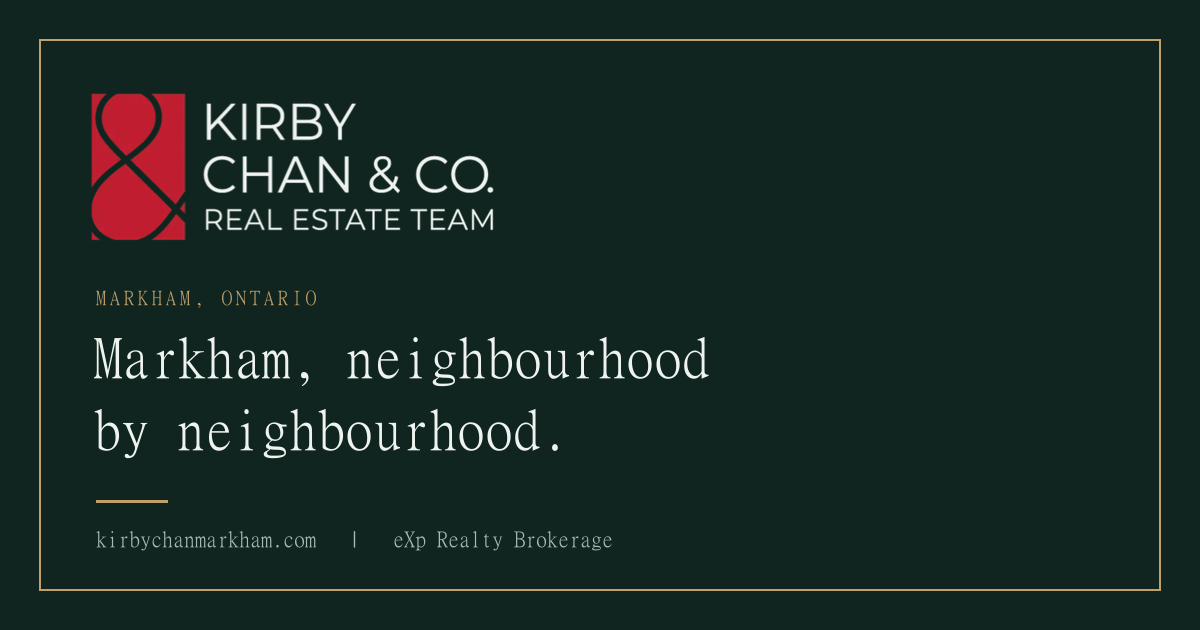
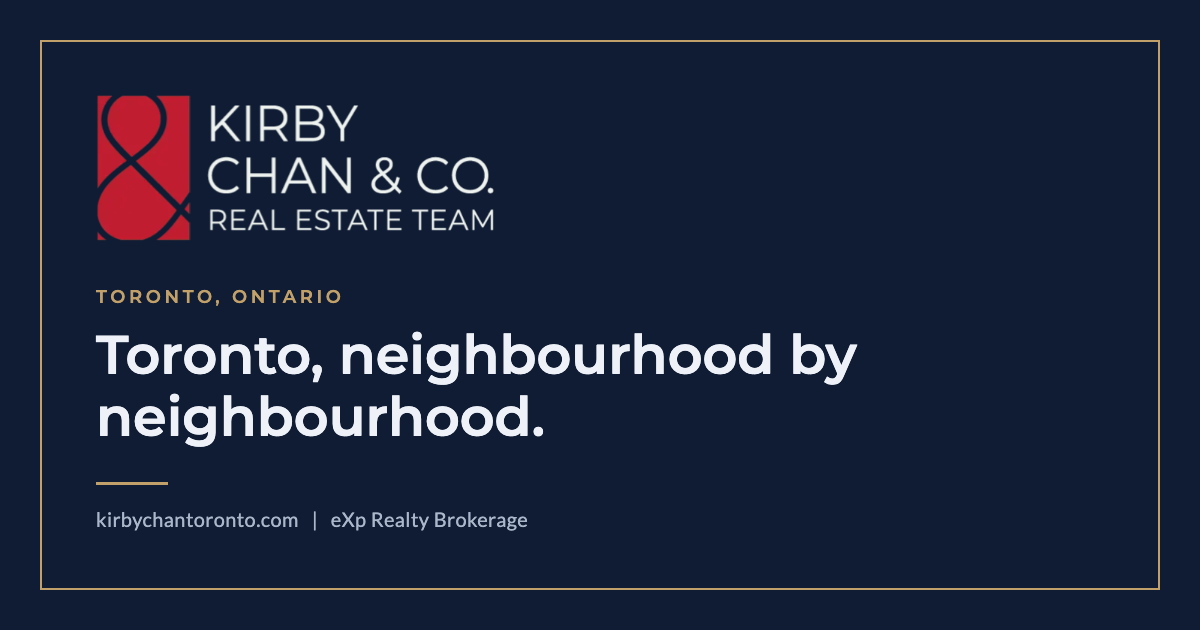
Theme: U of T Blue (Pantone 655, #1E3765)
Tokens, hard-coded greens, favicons and a Toronto share image. Contrast ratios recomputed and recorded in tokens.css; all text and buttons pass WCAG 2.1 AA.

diff --git a/src/styles/tokens.css b/src/styles/tokens.css
@@ -1,44 +1,48 @@
 /* ==========================================================================
-   Kirby Chan & Co. | Markham - design tokens
-   Evergreen sister palette to the crimson kirbychanandco.com brand.
+   Kirby Chan & Co. | Toronto - design tokens
+   U of T Blue (Pantone 655, #1E3765) on the shared light paper and brass.
 
-   Contrast (WCAG 2.1 AA, verified):
-     ink #1B2320 on paper #F8F8F5          15.1:1  body text
-     muted #4F5E58 on paper                 6.4:1  secondary text
-     brand #1F5045 on paper / white     8.6 / 9.2:1  links, eyebrows, italic accents
-     paper on brand                          8.6:1  primary button text
-     brass #C2A06A on ground #10251F         6.5:1  small accents on the dark footer
-     ground on brass                         6.5:1  brass button text
+   Contrast (WCAG 2.1 AA, computed with the WCAG 2.1 relative luminance formula):
+     ink #1A2130 on paper #F8F8F5          15.1:1  body text
+     muted #4D586B on paper / mist     6.8 / 6.3:1  secondary text
+     brand #1E3765 on paper / white   11.0 / 11.7:1  links, eyebrows, accents
+     paper on brand                         11.0:1  primary button text
+     paper on brand-dark #152747            14.0:1  primary button hover
+     brass #C2A06A on ground #0F1C33         6.9:1  small accents on the dark footer
+     ground on brass                         6.9:1  brass button text
+     on-dark #EEF2F8 on ground              15.1:1  text on dark bands
+     on-dark-muted #AAB6C9 on ground         8.3:1  secondary text on dark bands
+     footer #8E9BB0 on ground                6.1:1  footer small print
      brass on paper                          2.3:1  FAILS. Decorative only on light
                                                     grounds: rules, numerals, borders.
    ========================================================================== */
 
 :root {
   /* brand */
-  --brand: #1f5045;
-  --brand-dark: #163c34;
+  --brand: #1e3765;
+  --brand-dark: #152747;
   --brass: #c2a06a;
   --brass-soft: #e0cda8;
-  --ground: #10251f;
-  --ground-lift: #1b3a32;
+  --ground: #0f1c33;
+  --ground-lift: #1a2d4f;
   --paper: #f8f8f5;
-  --mist: #ecf1ee;
-  --ink: #1b2320;
+  --mist: #edf1f7;
+  --ink: #1a2130;
 
   /* semantic */
   --bg: var(--paper);
   --bg-alt: var(--mist);
   --bg-dark: var(--ground);
   --text: var(--ink);
-  --text-muted: #4f5e58;
-  --text-on-dark: #eef3f0;
-  --text-on-dark-muted: #a9bbb4;
+  --text-muted: #4d586b;
+  --text-on-dark: #eef2f8;
+  --text-on-dark-muted: #aab6c9;
   --link: var(--brand);
   --link-hover: var(--brand-dark);
   --accent: var(--brass);
-  --rule: #d6dfda;
-  --rule-dark: #2a4a41;
-  --focus: #1f5045;
+  --rule: #d5dce8;
+  --rule-dark: #2a3d5e;
+  --focus: #1e3765;
 
   /* type */
   --font-heading: 'Montserrat', 'Segoe UI', Helvetica, Arial, sans-serif;
@@ -73,8 +77,8 @@
   /* misc */
   --radius: 2px;
   --radius-lg: 4px;
-  --shadow: 0 1px 2px rgba(16, 37, 31, 0.05), 0 8px 24px rgba(16, 37, 31, 0.07);
-  --shadow-lift: 0 2px 4px rgba(16, 37, 31, 0.07), 0 16px 40px rgba(16, 37, 31, 0.11);
+  --shadow: 0 1px 2px rgba(15, 28, 51, 0.05), 0 8px 24px rgba(15, 28, 51, 0.07);
+  --shadow-lift: 0 2px 4px rgba(15, 28, 51, 0.07), 0 16px 40px rgba(15, 28, 51, 0.11);
   --ease: cubic-bezier(0.22, 0.61, 0.36, 1);
 }
 

diff --git a/src/styles/global.css b/src/styles/global.css
@@ -210,7 +210,7 @@ a.card { text-decoration: none; color: inherit; display: block; }
   letter-spacing: 0.06em;
   text-transform: uppercase;
   color: var(--brand-dark);
-  background: rgba(31, 80, 69, 0.08);
+  background: rgba(30, 55, 101, 0.08);
 }
 
 /* disclaimers -------------------------------------------------------------- */
@@ -234,7 +234,7 @@ a.card { text-decoration: none; color: inherit; display: block; }
 /* notice block, used inside MDX where scoped styles do not reach ------------ */
 .notice {
   padding: var(--sp-5);
-  background: rgba(31, 80, 69, 0.09);
+  background: rgba(30, 55, 101, 0.09);
   border: 1px dashed var(--brass);
   border-radius: var(--radius-lg);
   font-size: 0.9rem;
